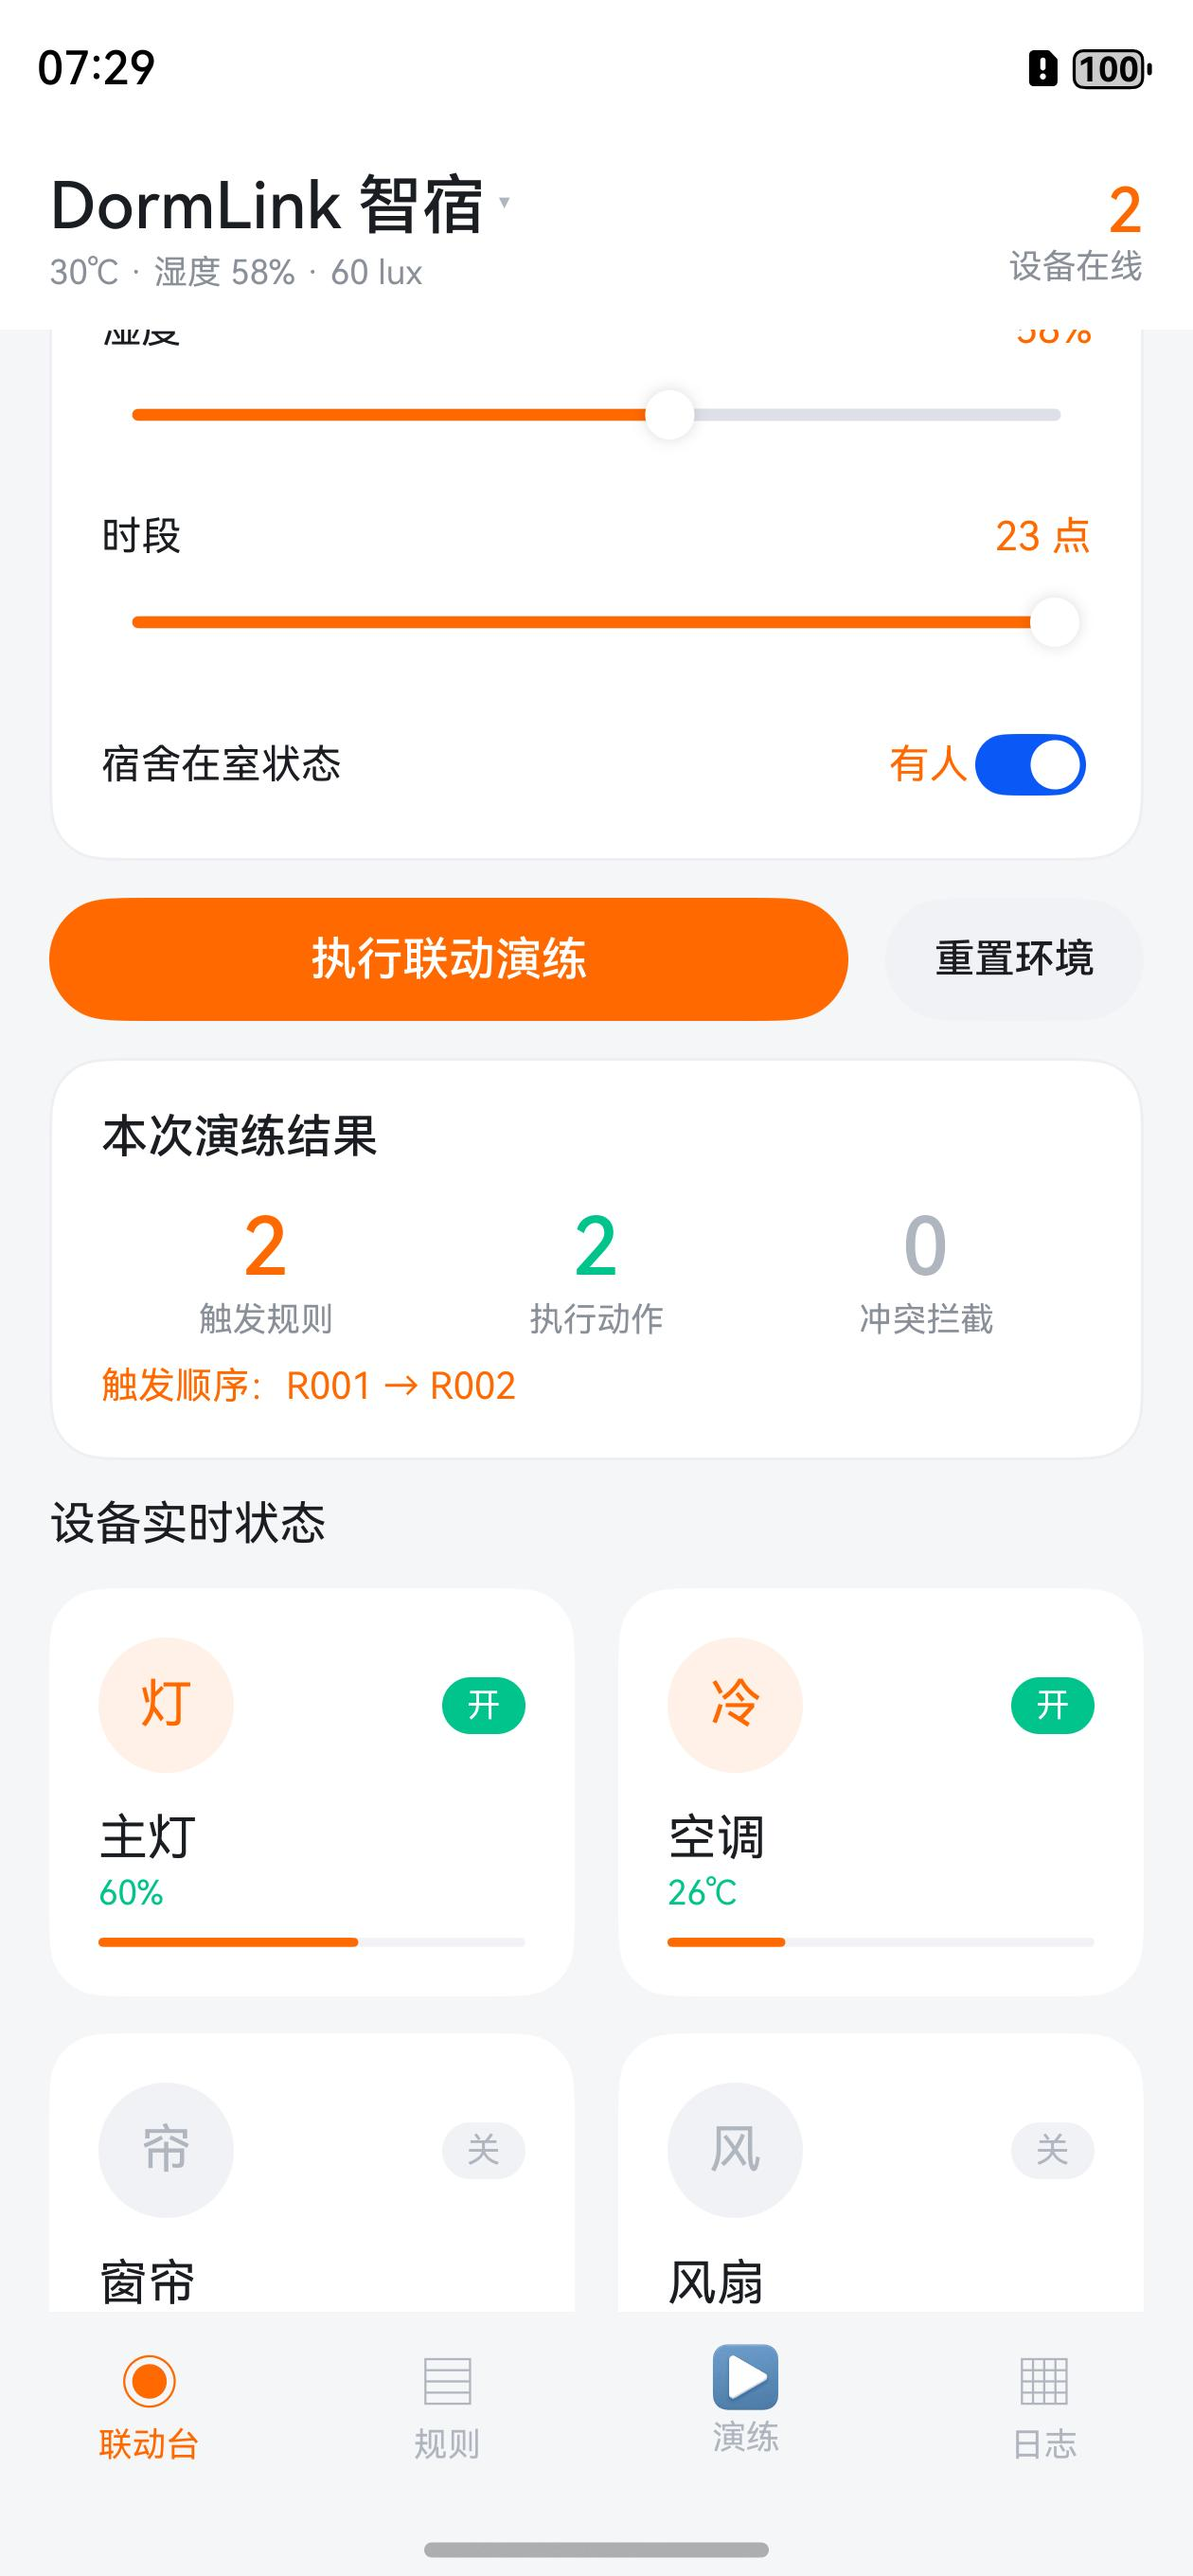
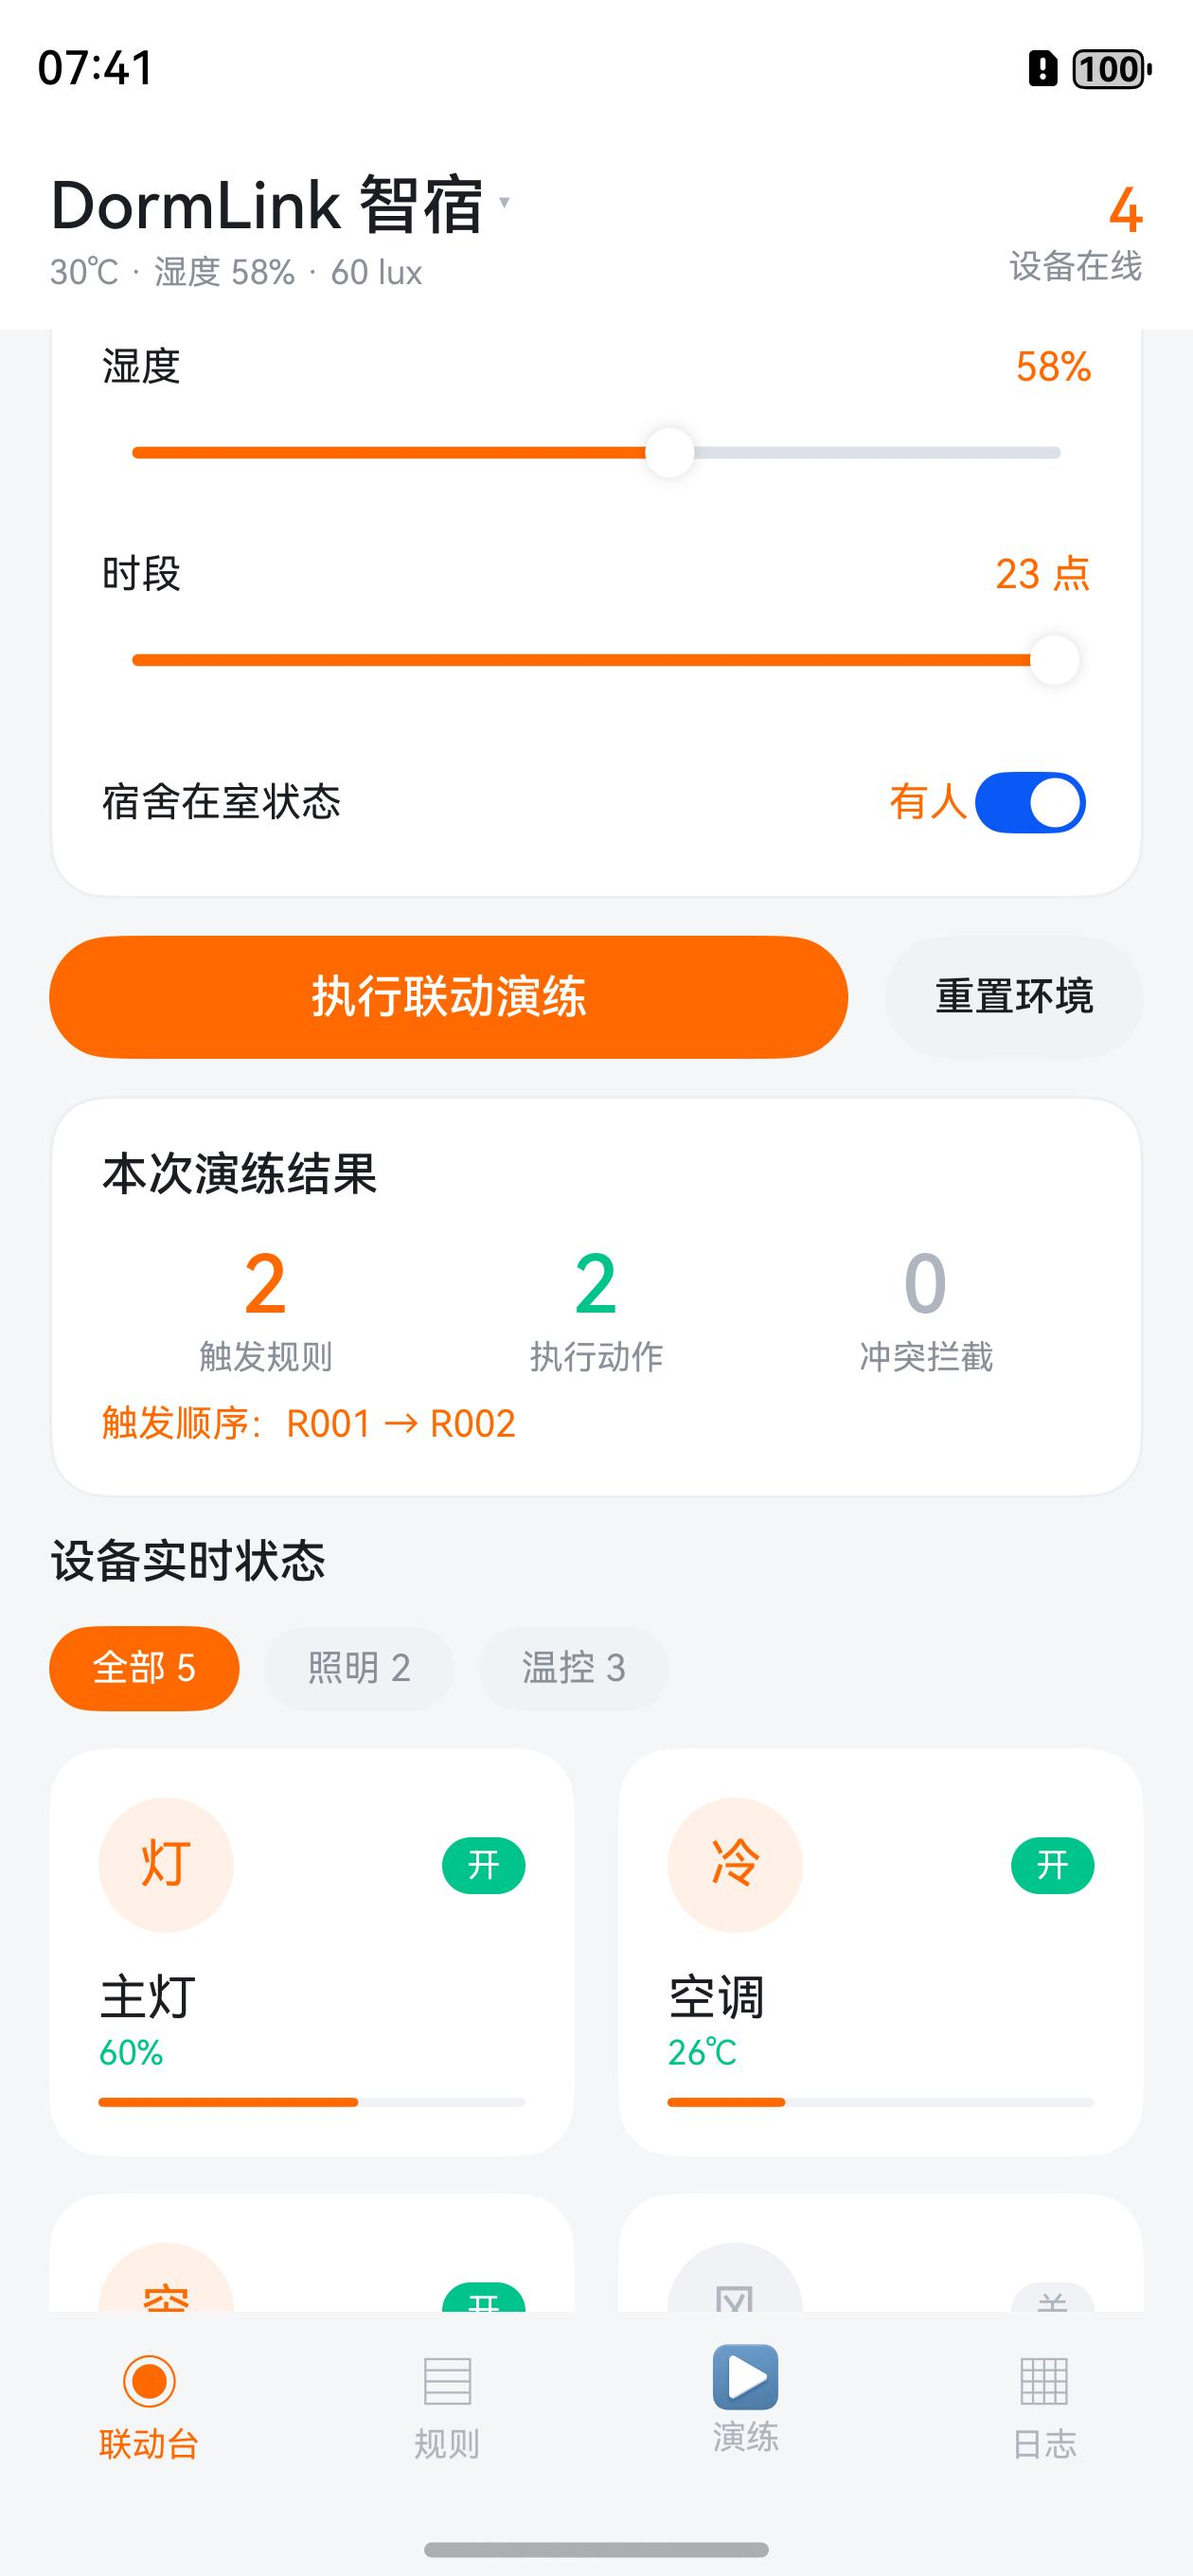
feat: 设备区新增米家式分组 Tab（全部/照明/温控）

diff --git a/tools/fill_report_template.py b/tools/fill_report_template.py
@@ -136,7 +136,7 @@ HINTS = [
     """开发中遇到的代表性问题是「优先级形同虚设」。最初的实现按优先级升序执行命中的规则，但对同一设备直接后写覆盖：在 S2 场景里 R002(p20) 先把空调打开，随后 R005(p50) 又把空调关闭，最终状态恰好与「高优先级胜出」相反，而且界面上看不出发生过争用。定位方式是打印执行序列与设备终态，发现执行阶段缺少「该设备本轮是否已被更高优先级规则处理过」的记忆。修复分三步：① 引入 Map<DeviceId, string> 记录每个设备通道的占用者，只有通道空闲才允许写入设备状态；② 对已被占用的动作不再写设备，改为生成 ConflictRecord 与 blocked=true 的 ExecutionRecord，保留触发条件快照与当前状态快照；③ 用 continue 而非 break，保证同一规则对其他设备的动作继续执行。修复后补充了三条测试，分别验证胜出者正确、拦截粒度只作用于争用设备、以及给 R002 补充「在室=有人」条件后冲突归零；同时在演练页做了可视化提示与「一键修复」按钮，把这条排查路径变成用户可复现的功能。""",
 
     # 13 运行效果
-    """一条完整的用户操作流程如下：冷启动进入联动台，提示「未检测到有效存档，已加载默认方案」，6 条规则与 5 台全部关闭的设备就绪。先到规则页确认 6 条规则的触发条件（R001 显示「时段≥22 且 在室=有人」的双条件），再回联动台逐条验证：温度调到 31℃ 执行，R002 触发、空调开至 26℃；光照调到 900 lux 执行，R003 触发、窗帘关闭；湿度降到 30% 执行，R004 触发、加湿器开二档；时段调到 23 点执行，双条件规则 R001 触发、主灯开 60%；在规则页启用默认停用的 R006 后把时段改到 8 点执行，R006 触发并与 R003 争夺窗帘通道，优先级更高的 R006 胜出、R003 的窗帘动作被拦截；最后把在室状态切为无人执行，R005 触发并与 R002、R003、R006 三方争用，界面显示「触发 4 条 / 执行 4 个 / 拦截 3 个」。每次执行后都滚动到设备区核对主灯、空调、窗帘、风扇、加湿器的实时状态，确认动作确实落到设备上，而不是只改了一个计数。点击任一设备卡可进入米家式的设备详情页，直接控制电源开关、调节亮度/温度/开合度/档位，并可设置 30 分钟或 1 小时后自动关闭；返回首页后设备卡与「设备在线」数立即同步。异常方面，在规则编辑器里把触发条件全部删除后保存，顶部立即提示「规则不合法：规则缺少触发条件」，编辑器保持打开、不写入存档。随后到演练页载入 S2 预设场景复现同一冲突，点「一键修复」为 R002 补充「在室=有人」条件后冲突归零；在日志页按序号核对每条动作的优先级、条件快照与设备变化前后值；最后点「生成测试报告」，应用在本进程内真实执行 12 条规则引擎断言并渲染结果（通过 12 / 失败 0，正常 5 / 边界 3 / 异常 4）。强制结束进程再重新打开，顶部显示「已恢复存档」并提示恢复了执行记录。上述流程的实际运行截图见图 6.1，完整操作录屏见 screenshots/demo-recording.mp4。""",
+    """一条完整的用户操作流程如下：冷启动进入联动台，提示「未检测到有效存档，已加载默认方案」，6 条规则与 5 台全部关闭的设备就绪。先到规则页确认 6 条规则的触发条件（R001 显示「时段≥22 且 在室=有人」的双条件），再回联动台逐条验证：温度调到 31℃ 执行，R002 触发、空调开至 26℃；光照调到 900 lux 执行，R003 触发、窗帘关闭；湿度降到 30% 执行，R004 触发、加湿器开二档；时段调到 23 点执行，双条件规则 R001 触发、主灯开 60%；在规则页启用默认停用的 R006 后把时段改到 8 点执行，R006 触发并与 R003 争夺窗帘通道，优先级更高的 R006 胜出、R003 的窗帘动作被拦截；最后把在室状态切为无人执行，R005 触发并与 R002、R003、R006 三方争用，界面显示「触发 4 条 / 执行 4 个 / 拦截 3 个」。每次执行后都滚动到设备区核对主灯、空调、窗帘、风扇、加湿器的实时状态，确认动作确实落到设备上，而不是只改了一个计数。设备区提供「全部 / 照明 / 温控」三个分组 Tab（带实时数量），可快速聚焦某一类设备。点击任一设备卡可进入米家式的设备详情页，直接控制电源开关、调节亮度/温度/开合度/档位，并可设置 30 分钟或 1 小时后自动关闭；返回首页后设备卡与「设备在线」数立即同步。异常方面，在规则编辑器里把触发条件全部删除后保存，顶部立即提示「规则不合法：规则缺少触发条件」，编辑器保持打开、不写入存档。随后到演练页载入 S2 预设场景复现同一冲突，点「一键修复」为 R002 补充「在室=有人」条件后冲突归零；在日志页按序号核对每条动作的优先级、条件快照与设备变化前后值；最后点「生成测试报告」，应用在本进程内真实执行 12 条规则引擎断言并渲染结果（通过 12 / 失败 0，正常 5 / 边界 3 / 异常 4）。强制结束进程再重新打开，顶部显示「已恢复存档」并提示恢复了执行记录。上述流程的实际运行截图见图 6.1，完整操作录屏见 screenshots/demo-recording.mp4。""",
 
     # 14 数据恢复与集成
     """以「用户新增的规则」这一代表性数据为例：在规则编辑器保存时，Index.saveDraft() 更新 @State rules，随后 runOnce() 触发 DormStore.persist()；DormStore 把 environment、devices、rules、最近 50 条 records 与 conflicts 组装成 PersistedState，serializeState 生成 JSON 字符串，StorageService.save() 执行 put 与 flush 后立即落盘。结束应用进程后重新打开，Index.aboutToAppear() 调用 DormStore.restore()：先 getPreferences，再 load 取出字符串，deserializeState 还原对象，校验 devices 与 rules（逐条 validateRule），通过后 applySnapshot 回填全部 @State。若存储初始化失败、无存档或 JSON 损坏，则安全回退默认方案并在界面显示具体原因，不会出现白屏或崩溃。集成验证方面，Node 侧异常用例断言存档字符串可 round-trip 且损坏 JSON 返回 null，边界用例断言 4 组场景重复执行终态一致，DevEco 侧 ohosTest 覆盖同一逻辑。结束进程并重新打开后的界面见图 6.2：顶部显示「已恢复存档」，并提示已从 Preferences 恢复规则、设备状态与最近 4 条执行记录，环境量与设备状态与关闭前完全一致。""",

diff --git a/docs/设计规范.md b/docs/设计规范.md
@@ -167,6 +167,13 @@
 - 卡内：40px 圆形图标底（`accentSubtle` 底 + `brand` 中文字：月/日/晨/夜）→ 场景名（`label`）→ 「S1 · 23 点」（`caption` 灰）。
 - 点击直接载入该场景并演练，与演练页的完整场景卡复用同一份 `SCENE_PRESETS`。
 
+### 6.2.3.1 设备分组 Tab（米家式房间切换）
+
+- 位置：设备区标题下方，一行 pill Tab。
+- 分组：`全部`（5）/ `照明`（主灯、窗帘）/ `温控`（空调、风扇、加湿器），Tab 文字带实时数量。
+- 选中态 `brand` 底 + `textInverse` 字，未选中 `surfaceAlt` 底 + `textSecondary` 字，圆角 pill，内边距 14/7。
+- 切换只过滤展示，不改变设备数据；分组内设备仍为两列网格。
+
 ### 6.2.4 设备详情页（米家式全屏控制）
 
 - 进入方式：点击首页设备卡；全屏覆盖，底部无 TabBar。
